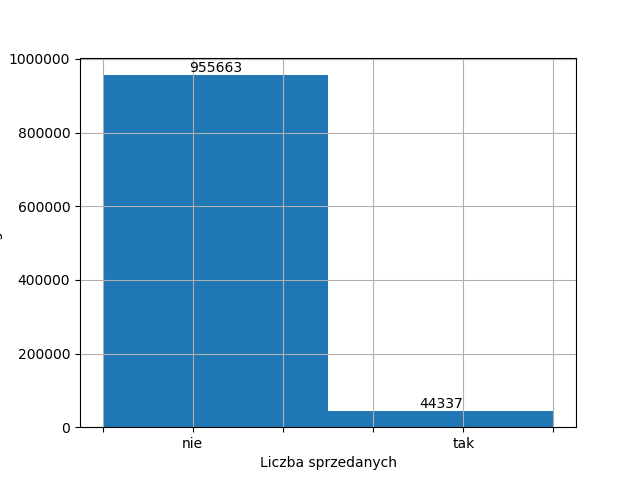
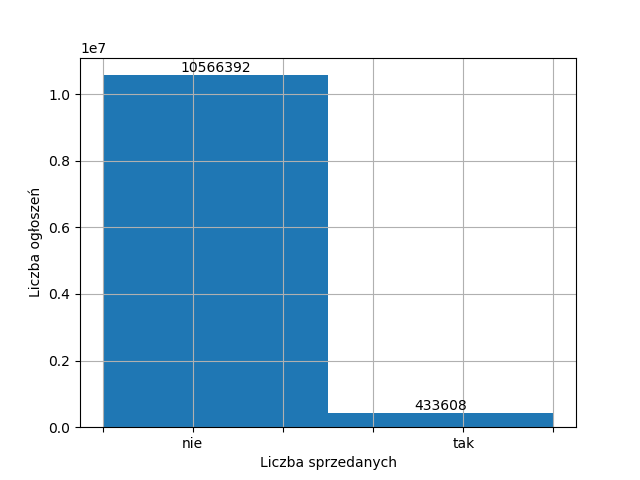
Add ads correlation plots and values

diff --git a/DataNinja/DataAnalyzer/AdsCounter.py b/DataNinja/DataAnalyzer/AdsCounter.py
@@ -2,6 +2,8 @@ import pandas as pd
 import matplotlib.pyplot as plt
 import DataNinja.DataReader.AdsReader as AdsReader
 from DataNinja.Utils.Types import represents_float
+import scipy
+import scipy.stats
 
 
 def count_views():
@@ -59,7 +61,7 @@ def count_replies():
 
 
 def count_sold():
-    ads = AdsReader.get_ads_clean(max_months=1)
+    ads = AdsReader.get_ads_clean(max_months=11)
     sold_clean = []
     for month in ads:
         sold = ads[month]["sold"].dropna()
@@ -86,4 +88,32 @@ def count_sold():
     ax.set_xticklabels(["", "", "nie", "", "", "tak"])
     ax.grid(True)
     plt.show()
+
+
+def calculate_correlation():
+    ads = AdsReader.get_ads_clean(max_months=11)
+    views_clean = []
+    sold_clean = []
+    for month in ads:
+        views_sold = ads[month][["replies", "views"]].dropna()
+        views = views_sold["views"]
+        sold = views_sold["replies"]
+        counter = 0
+        for x in views:
+            if isinstance(x, float):
+                if isinstance(sold.iloc[counter], float):
+                    sold_clean.append(sold.iloc[counter])
+                    views_clean.append(x)
+            counter += 1
+    print(scipy.stats.pearsonr(views_clean, sold_clean))
+    plt.plot(views_clean, sold_clean, 'ro')
+    plt.grid(True)
+    plt.xlabel("Liczba wy\u015Bwietle\u0144")
+    plt.ylabel("Liczba odpowiedzi")
+    plt.show()
+
+calculate_correlation()
+
+
+
 
